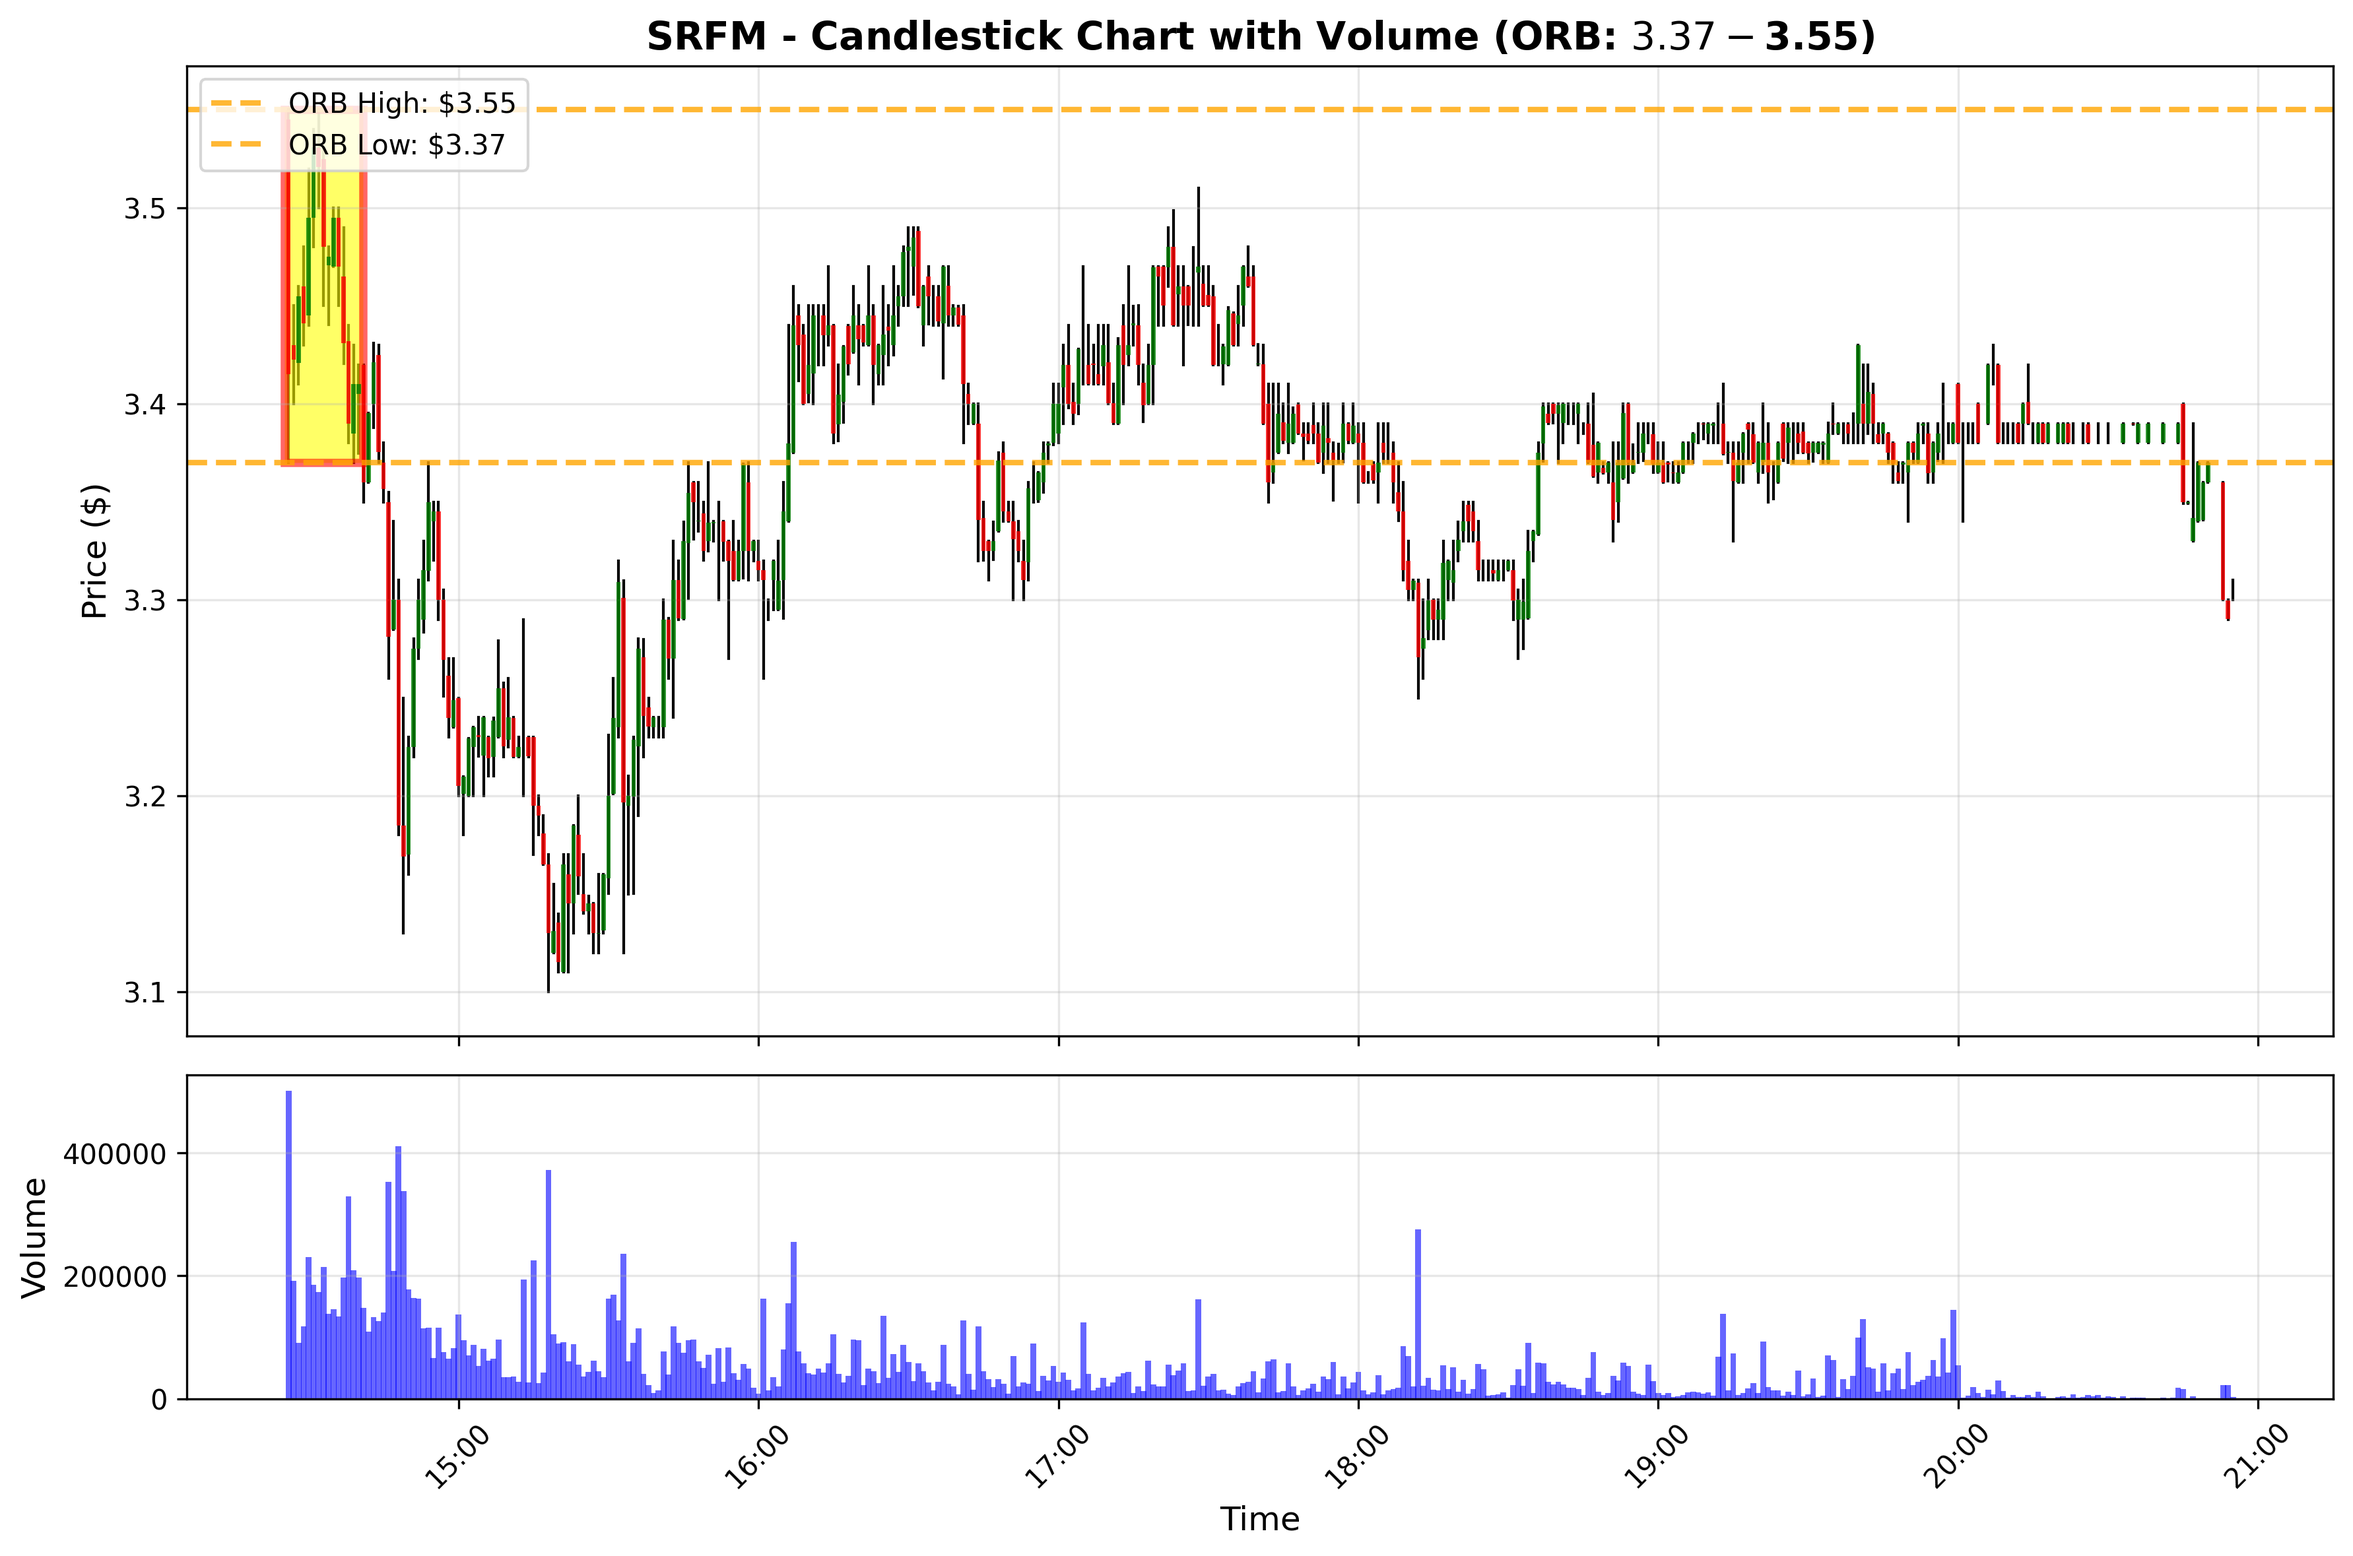
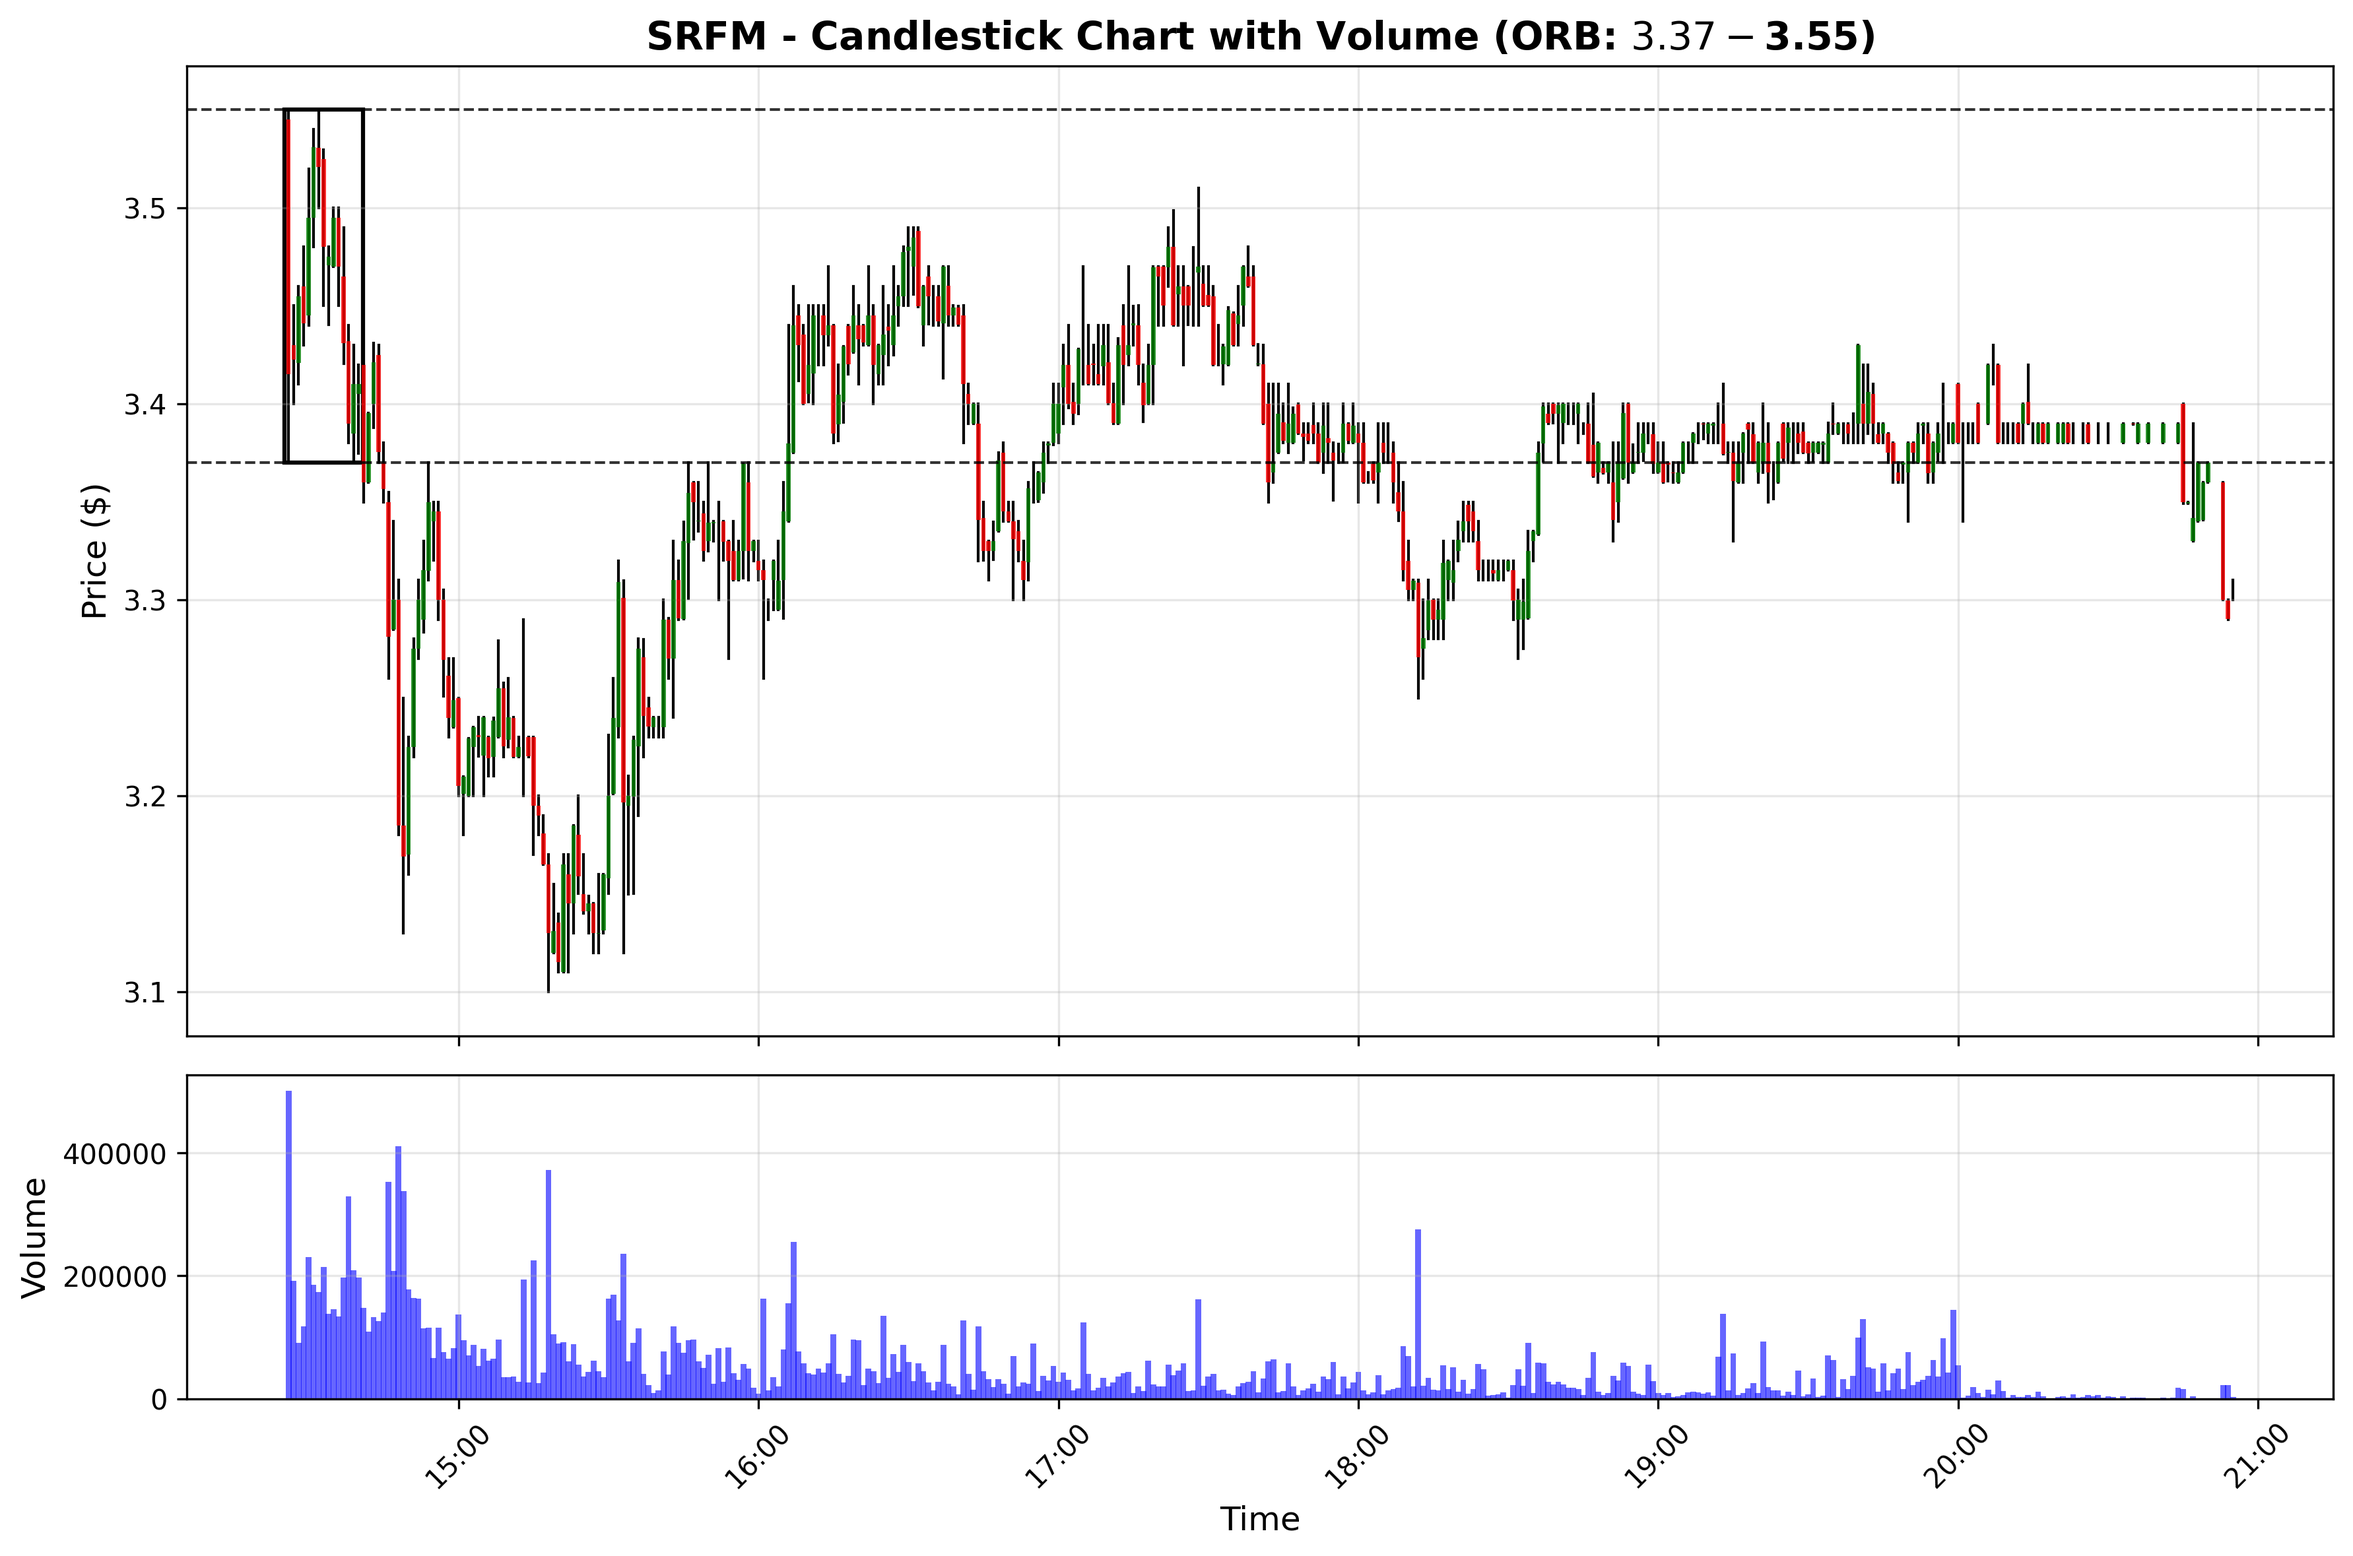
ORB mods.

diff --git a/atoms/display/plot_candle_chart.py b/atoms/display/plot_candle_chart.py
@@ -154,19 +154,21 @@ def plot_candle_chart(df: pd.DataFrame, symbol: str, output_dir: str = 'plots') 
             
             orb_width = x_max - x_min + 0.0012  # Add small padding to cover the last candlestick
             
-            # Draw ORB rectangle (filled with thinner edge)
+            # Draw ORB rectangle (no fill with thin edge)
             orb_rect = Rectangle((x_min - 0.0006, orb_low), orb_width, orb_high - orb_low,
-                               facecolor='yellow', edgecolor='red', alpha=0.6, linewidth=3)
+                               facecolor='none', edgecolor='black', alpha=1.0, linewidth=1.5)
             ax1.add_patch(orb_rect)
             
             # Add ORB level lines
-            ax1.axhline(y=orb_high, color='orange', linestyle='--', linewidth=2, alpha=0.8, label=f'ORB High: ${orb_high:.2f}')
-            ax1.axhline(y=orb_low, color='orange', linestyle='--', linewidth=2, alpha=0.8, label=f'ORB Low: ${orb_low:.2f}')
+            ax1.axhline(y=orb_high, color='black', linestyle='--', linewidth=1, alpha=0.8, label=f'ORB High: ${orb_high:.2f}')
+            ax1.axhline(y=orb_low, color='black', linestyle='--', linewidth=1, alpha=0.8, label=f'ORB Low: ${orb_low:.2f}')
             
-            # Add legend for ORB levels
-            ax1.legend(loc='upper left', fontsize=10)
-            
-            print(f"ORB levels for {symbol}: High=${orb_high:.2f}, Low=${orb_low:.2f}")
+            isDebugging = False  # Set to True for debugging output
+            if isDebugging:
+                # Add legend for ORB levels
+                ax1.legend(loc='upper left', fontsize=10)
+                
+                print(f"ORB levels for {symbol}: High=${orb_high:.2f}, Low=${orb_low:.2f}")
         
         # Format price chart
         title = f'{symbol} - Candlestick Chart with Volume'
